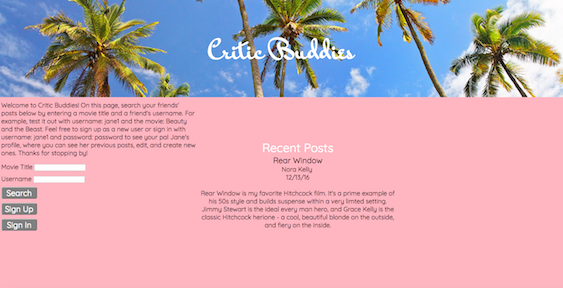
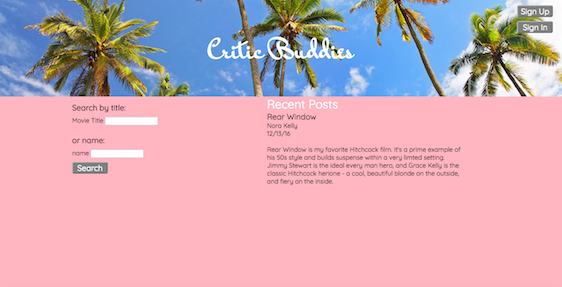
mobile1

diff --git a/index.html b/index.html
@@ -2,6 +2,7 @@
 <html>
 <link rel="stylesheet" href="https://cdnjs.cloudflare.com/ajax/libs/bulma/0.4.0/css/bulma.min.css">
 <link rel="stylesheet" type="text/css" href="main.css">
+<meta name="viewport" content="width=device-width, user-scalable=no">
 <head>
 <script src="https://use.fontawesome.com/52a35ffba6.js"></script>
 <link rel="stylesheet" href="font-awesome.css">
@@ -44,7 +45,7 @@
 					<br>
 					<div class="project NYTimes">
 						<div class="timesButtons">
-							<a class="button" href="https://bernadettekelly.github.io/	NYTimesSearch/">
+							<a class="button" href="https://bernadettekelly.github.io/NYTimesSearch/#/">
 							See it Live</a>
 							<a class="button" href="https://github.com/bernadettekelly/NYTimesSearch">
 							Github<i class="fa fa-github" aria-hidden="true"></i></a>
@@ -129,7 +130,7 @@
     				<article class="tile is-child notification is-primary">
       					<div class="content">
         					<p class="title">What I'm Looking For</p>
-        					<p class="subtitle">A junior frontend developmet position using React or HTML, CSS, and Javascript. Because I am coding fledgling, I am particularly eager to continue learning every day and contributing to an enthusiastic team.</p>
+        					<p class="subtitle">A junior UX position using HTML, CSS, and Javascript. As a fledgling, I am particularly eager to continue learning every day and contributing to an enthusiastic team.</p>
         				</div>
     				</article>
   				</div>

diff --git a/main.css b/main.css
@@ -176,6 +176,16 @@ nav {
 
 
 
+@media only screen and (max-width: 320px) {
+	body{
+	width: 320px;
+    height: 2200px;
+    overflow-y: hidden;
+    overflow-x: auto;
+	}
+}
+
+
 @media only screen and (max-width: 640px) {
 	.marsButtons {
 	margin-top: 330px;
@@ -184,8 +194,13 @@ nav {
 	.criticButtons {
     margin-top: 330px;
     }
+    body{
+	width: 500px;
+    height: 2200px;
+    overflow-y: hidden;
+    overflow-x: auto;
+	}
 }
-
 
 
 
